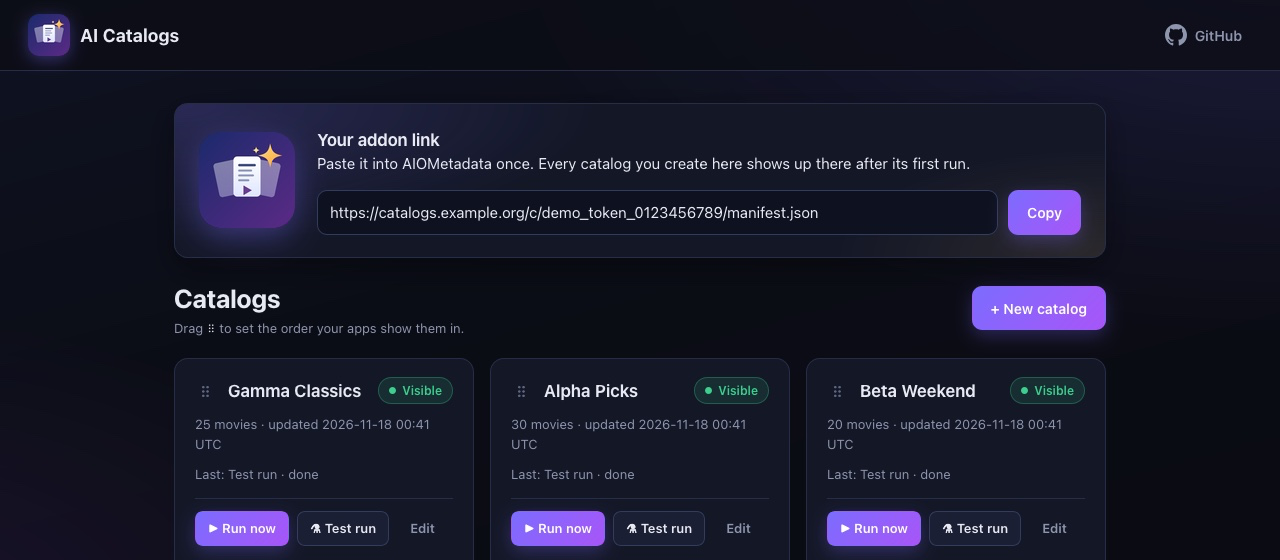
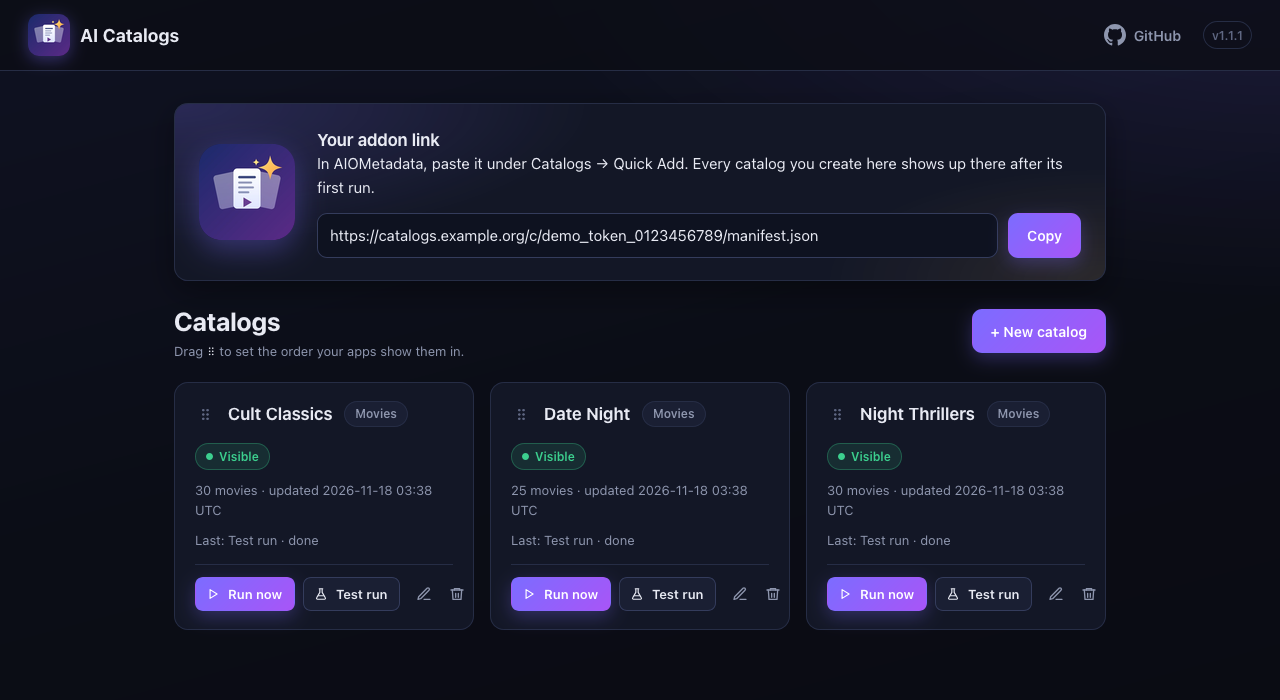
Shortfall "Any" saves, ask for 2x by default, plain help, new screenshots
- "Publish what was found" no longer needs "Smallest catalog worth
  publishing": empty (Any) now means publish any non-empty list. Before, the
  form showed "Any" as allowed but refused to save.
- overgenerate_factor default 1.6 -> 2.0. A 40-movie catalog asked for 64
  and usually needed several small top-up calls; 80 up front (2 calls of 40)
  covers it more often. Catalogs that never set it follow the new default.
- Short help for "When there aren't enough new movies" and "When a refresh
  comes up short" (they had none); the strict option now reads "Never repeat".
- README screenshots retaken from the current editor with demo data.

diff --git a/app/curation/editor.py b/app/curation/editor.py
@@ -654,13 +654,13 @@ HELP = {
     "category_min": 'Guarantee some movies for a theme from "Themes to spread the picks across". '
     "Best effort: a refresh still publishes if it can't.",
     "overgenerate_factor": "Some suggestions get rejected by your rules, so the AI is asked for more than "
-    "needed. 1.6 asks for 64 to fill 40. Default 1.6.",
+    "needed. 2 asks for 80 to fill 40. Default 2.",
     "history_window_runs": "Movies from the last few versions of this catalog are not picked again. "
     "Default 7: with a daily refresh, nothing repeats within a week.",
-    "history_mode": "",
-    "on_shortfall": "",
-    "min_accept": 'Only used with "Publish what was found": a refresh that finds fewer movies than this keeps '
-    "the previous version instead.",
+    "history_mode": "If the AI runs out of new movies: skip repeats, or let the oldest ones back in.",
+    "on_shortfall": "If a refresh finds fewer movies than you asked for: keep the current list, or use the "
+    "shorter one.",
+    "min_accept": 'With "Publish what was found": never publish fewer than this. Any: no minimum.',
     "max_model_calls_per_run": "A run asks the AI once (big catalogs: a few times, about 60 movies per ask). If too "
     'many suggestions fail your rules, it asks again for more: those are the "extra rounds to fill gaps" in a '
     "run's details. This caps all of them per run. Default 8; a typical run uses 1 or 2.",
@@ -677,7 +677,7 @@ HELP = {
 OPTION_LABELS = {
     "type": {"movie": "Movies", "series": "Shows"},
     "history_mode": {
-        "strict": "Keep the previous version (never repeat)",
+        "strict": "Never repeat",
         "relax": "Allow the oldest repeats back in",
     },
     "on_shortfall": {

diff --git a/tests/unit/curation/test_pipeline.py b/tests/unit/curation/test_pipeline.py
@@ -78,10 +78,10 @@ async def test_happy_path_publishes_exactly_100_unique():
     assert len(published) == 100 and len(set(published)) == 100
     run = last_run()
     assert run["status"] == "ok" and run["seed"] and run["prompt_hash"]
-    assert run["model_calls"] == 3  # 160 requested in batches of 60, 60, 40
-    assert services.llm.calls == 3
+    assert run["model_calls"] == 4  # 200 requested in batches of 50
+    assert services.llm.calls == 4
     counts = json.loads(run["stage_counts_json"])
-    assert counts["generated"] == 160 and counts["eligible"] == 160 and counts["selected"] == 100
+    assert counts["generated"] == 200 and counts["eligible"] == 200 and counts["selected"] == 100
     with db.session() as conn:
         assert conn.execute("SELECT COUNT(*) FROM history").fetchone()[0] == 100
         job = conn.execute("SELECT state FROM jobs").fetchone()
@@ -212,7 +212,7 @@ async def test_topup_shortfall_is_computed_after_selection():
     assert services.llm.calls > 3
     published = [int(i[2:]) - 1_000_000 for i in active_ids()]
     assert sum(1 for n in published if n <= 120) == 1
-    assert "STILL NEEDED" in services.llm.prompts[3]
+    assert "STILL NEEDED" in services.llm.prompts[4]
 
 
 async def test_hard_decade_quota_steers_topups_and_is_met():

diff --git a/app/curation/pipeline.py b/app/curation/pipeline.py
@@ -311,7 +311,7 @@ class RunSettings:
     @classmethod
     def from_definition(cls, d: Mapping[str, Any]) -> "RunSettings":
         target = int(d.get("target_count") or 100)
-        factor = float(d.get("overgenerate_factor") or 1.6)
+        factor = float(d.get("overgenerate_factor") or 2.0)
         return cls(
             target_count=target,
             request_total=max(target, math.ceil(target * factor)),
@@ -633,8 +633,7 @@ class Pipeline:
             required, quotas, partial = self.settings.target_count, dict(self.limits.decade_min), False
         elif (
             self.settings.on_shortfall == "publish_partial"
-            and self.settings.min_accept is not None
-            and count >= self.settings.min_accept
+            and count >= (self.settings.min_accept or 1)
         ):
             required, partial = count, True
             quotas = scaled_quotas(self.limits, count, self.settings.target_count)

diff --git a/app/curation/definitions.py b/app/curation/definitions.py
@@ -114,7 +114,7 @@ class CatalogDefinition(BaseModel):
 
     # Run shape
     target_count: int = Field(default=100, ge=1, le=MAX_ITEMS)
-    overgenerate_factor: float = Field(default=1.6, ge=1.0, le=5.0)
+    overgenerate_factor: float = Field(default=2.0, ge=1.0, le=5.0)
     history_window_runs: int = Field(default=7, ge=0, le=1000)
     history_mode: Literal["strict", "relax"] = "strict"
     on_shortfall: Literal["fail", "publish_partial"] = "fail"
@@ -125,8 +125,6 @@ class CatalogDefinition(BaseModel):
 
     @model_validator(mode="after")
     def _consistent(self):
-        if self.on_shortfall == "publish_partial" and self.min_accept is None:
-            raise ValueError("on_shortfall: publish_partial needs min_accept")
         if self.min_accept is not None and self.min_accept > self.target_count:
             raise ValueError("min_accept must not be greater than target_count")
         if self.type == SERIES:

diff --git a/tests/unit/api/test_admin.py b/tests/unit/api/test_admin.py
@@ -362,7 +362,10 @@ def test_validation_errors_are_shown_and_nothing_is_stored(client):
         ({"prompt": PROMPT, "target_count": "abc"}, "Movies in the catalog: enter a number"),
         ({"prompt": PROMPT, "schedule": "cron: '0 6 * *'"}, "Refresh: a custom schedule needs five parts"),
         ({"prompt": PROMPT, "decade_min": "[unclosed"}, "Minimum movies per decade: couldn&#39;t read this value"),
-        ({"prompt": PROMPT, "on_shortfall": "publish_partial"}, "Smallest catalog worth publishing"),
+        (
+            {"prompt": PROMPT, "target_count": "40", "on_shortfall": "publish_partial", "min_accept": "60"},
+            "Smallest catalog worth publishing",
+        ),
         ({"prompt": ""}, "What kind of movies do you want?"),
     ]
     for values, expected in cases:

diff --git a/tests/unit/curation/test_definitions.py b/tests/unit/curation/test_definitions.py
@@ -166,7 +166,7 @@ def test_validate_dir_writes_nothing(tmp_path):
         ("released: 2020-01-01\n", "plain text"),
         ("target_count: 0\n", "target_count"),
         ("target_count: 300\n", "target_count"),
-        ("on_shortfall: publish_partial\n", "min_accept"),
+        ("on_shortfall: publish_partial\nmin_accept: 200\ntarget_count: 100\n", "min_accept"),
         ("decade_min: {1980: 60, 1990: 60}\n", "decade_min asks for 120"),
         ("year_min: 2000\ndecade_min: {1980: 5}\n", "outside year_min"),
         ("history_mode: loose\n", "history_mode"),

diff --git a/PLAN.md b/PLAN.md
@@ -246,7 +246,7 @@ The pipeline keeps one candidate pool for the run; every stage is idempotent ove
 
 1. **Render prompt** (section 6) for the first batch.
 2. **Generate** via `CuratedLLMService` (section 7): ask for
-   `target_count * overgenerate_factor` (default 100 x 1.6) in batches of <= 60, each
+   `target_count * overgenerate_factor` (default 100 x 2.0) in batches of <= 60, each
    batch told the titles already produced this run.
 3. **Normalise + dedupe** on (casefolded, punctuation-stripped title, year).
 4. **Static + history pre-filter** by normalised title/year (cheap; saves TMDB calls).
@@ -355,7 +355,7 @@ automatically when a definition is applied, with the same resolver as the gateke
 `scripts/resolve_blacklist.py` exposes that resolution for inspection only.
 
 The YAML also carries: `model`, `temperature`, `max_tokens`, `timeout_s`,
-`target_count` (default 100), `overgenerate_factor` (default 1.6), `schedule` (cron +
+`target_count` (default 100), `overgenerate_factor` (default 2.0), `schedule` (cron +
 timezone), `history_window_runs` (default 7), `history_mode` (default `strict`),
 `on_shortfall` (default `fail`), `max_model_calls_per_run` (default 8),
 `max_runs_per_day` (default 4), `weekday_focus`, `exclude_watched` (default false) and
